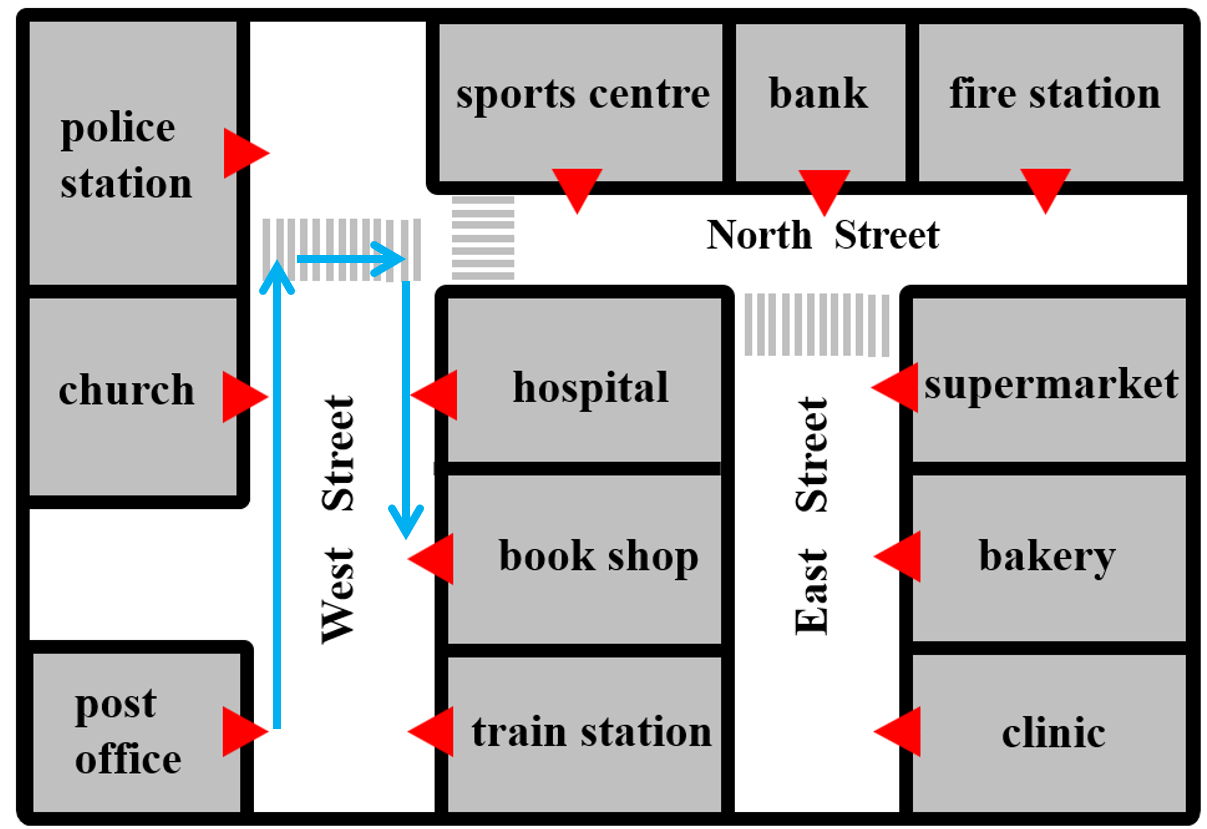
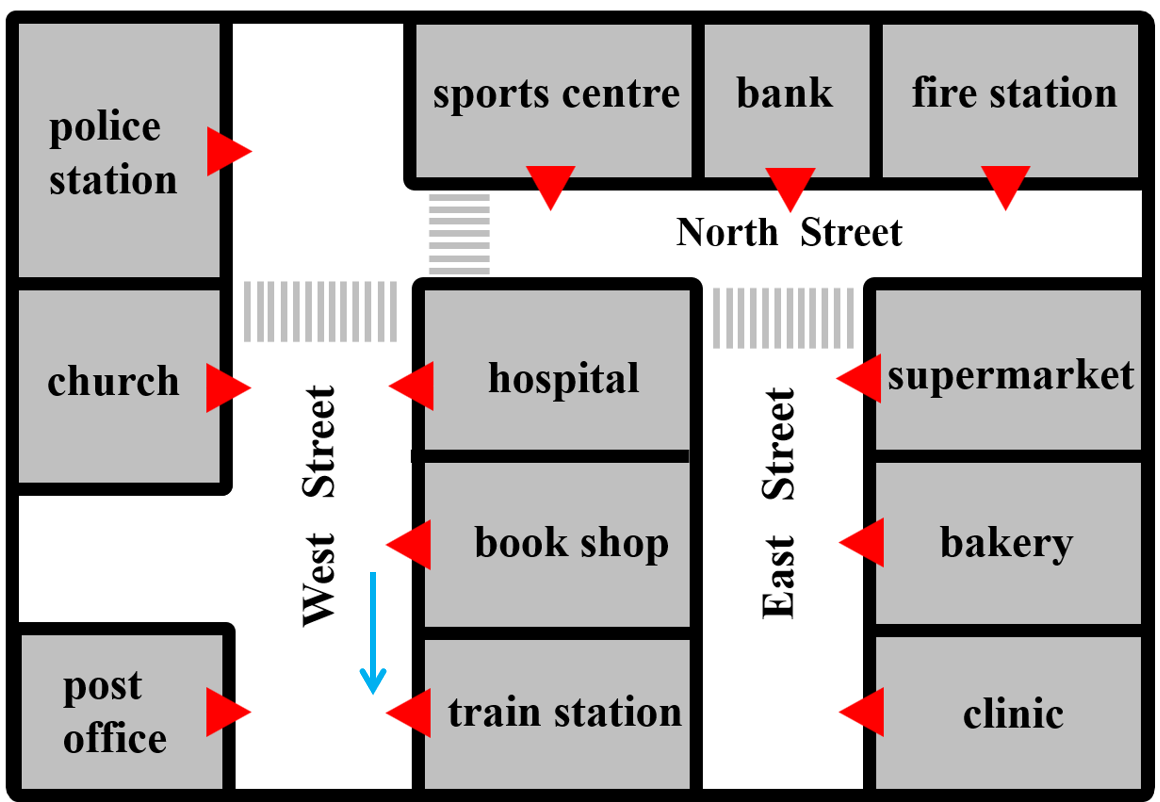
update location

diff --git a/lib/english-prompts.ts b/lib/english-prompts.ts
@@ -135,11 +135,13 @@ Opening sequence:
 2. Use the fixed [A] and [B] given in the "Fixed Locations for This Task" override section below. Do NOT pick your own pair. Keep this [A] and [B] for the rest of this task.
 3. Ask: "Great! Let us start Task 1. Look at the map. How can I go to the [B] from the [A]? Use prepositional phrases to describe the direction."
 
-IMPORTANT — Task 1 route: The Task 1 map shows a MARKED route from the post office to the book shop (up West Street, then across at the zebra crossing). Do NOT use the shortest same-street path. The "Verified Correct Route" provided below is the ONLY ground truth for this task — verify the student strictly against it (including the zebra crossing and both right turns).
+Reference answer (INTERNAL — never reveal before the student attempts the task):
+"Go out of the book shop. Turn left. Walk along West Street. The train station is on your left."
+This reference answer is a GUIDE to the expected route. The student does NOT have to match it word-for-word — wording, sentence style, and mentioning (or skipping) the "walk past" landmarks are all flexible. BUT the DIRECTIONS must still be correct: every turn (left/right), the walking direction, the street names, and the final side (your left / your right) MUST match this reference route. If the student's turn or direction contradicts the reference (e.g. writes "turn right" when the route turns left), you MUST correct it in the table — do NOT accept a wrong turn just because the rest is fine.
 
 When the student answers:
-1. Silently run the Route verification protocol against the Verified Correct Route (NOT a self-traced shortest path).
-2. Produce the correction table — left/right and turns must match the verified route. Mentioning the "walk past" buildings is OPTIONAL: do not add landmarks the student left out; only fix a landmark that is actually wrong.
+1. Silently run the Route verification protocol against the reference answer above (same street — walk along West Street to the destination).
+2. Produce the correction table — left/right and turns must match the reference route. Mentioning the "walk past" buildings is OPTIONAL: do not add landmarks the student left out; only fix a landmark that is actually wrong.
 
 Focus for this task:
 - Prepositional phrases only — complete sentences NOT required
@@ -147,7 +149,7 @@ Focus for this task:
 - Starting location MUST match the task
 - Left/right MUST match your verified path (except "walk across" steps)
 - Capitalize sentence starts and add "."
-- Example: "go out post office" → "Go out of the post office."
+- Example: "go out book shop" → "Go out of the book shop."
 - Do NOT suggest prepositions or phrases before the student answers
 `;
 
@@ -158,8 +160,14 @@ Opening sequence:
 2. Use the fixed [A] and [B] given in the "Fixed Locations for This Task" override section below. Do NOT pick your own pair. Keep this [A] and [B] for the rest of this task.
 3. Ask: "Great! Let us start Task 2. Look at the map. How can I go from [A] to [B]? Write short sentences with the prepositional phrases you learned."
 
+IMPORTANT — Task 2 route: The map shows a MARKED route from the post office to the book shop (up West Street, then across at the zebra crossing). Do NOT use the shortest same-street path — verify against the reference answer below (including the zebra crossing and both right turns).
+
+Reference answer (INTERNAL — never reveal before the student attempts the task):
+"Exit the post office and turn left. Walk straight ahead along West Street. Walk past the church. Turn right. Walk across the street at the zebra crossing. Turn right again. Walk past the hospital. The bookshop is on your left."
+This reference answer is a GUIDE to the expected route. The student does NOT have to match it word-for-word — wording, sentence style, and mentioning (or skipping) the "walk past" landmarks are all flexible. BUT the DIRECTIONS must still be correct: every turn (left/right), the walking direction, the street names, the zebra crossing, and the final side (your left / your right) MUST match this reference route. In particular, the FIRST step out of the post office is "turn left" — if the student writes "turn right" there (or any turn/direction that contradicts the reference), you MUST correct it in the table. Do NOT accept a wrong turn just because the rest is fine.
+
 When the student answers:
-1. Silently run the Route verification protocol with the SAME [A] and [B].
+1. Silently run the Route verification protocol against the reference answer above (NOT a self-traced shortest path).
 2. Produce the correction table.
 
 Focus for this task:
@@ -228,6 +236,7 @@ After the student finishes Task 5: "Congratulations! You have completed all task
 
 export const ENGLISH_LOCATION_DIRECTION_PROMPTS: Record<number, string> = {
   1: SHARED_CORE + TASK_1 + POST,
+  // Task 2 is a copy of Task 1 (see TASK_2), just labeled "Task 2".
   2: SHARED_CORE + TASK_2 + POST,
   3: SHARED_CORE + TASK_3 + POST,
   4: SHARED_CORE + TASK_4 + POST,
@@ -255,8 +264,8 @@ export type LocationPair = { from: string; to: string };
 
 // Fixed [A] → [B] location pairs for Tasks 1–4 (Task 5 uses the student's own map).
 export const LOCATION_FIXED_PAIRS: Record<number, LocationPair> = {
-  1: { from: "Post Office", to: "Book Shop" },
-  2: { from: "Sports Centre", to: "Fire Station" },
+  1: { from: "Book Shop", to: "Train Station" },
+  2: { from: "Post Office", to: "Book Shop" },
   3: { from: "Book Shop", to: "Sports Centre" },
   4: { from: "Sports Centre", to: "Clinic" },
 };
@@ -265,8 +274,13 @@ export const LOCATION_FIXED_PAIRS: Record<number, LocationPair> = {
 // in SHARED_CORE. Keyed by `${from}→${to}`. These are the canonical correct
 // answers the AI must verify the student against (no live tracing needed).
 export const LOCATION_FIXED_ROUTES: Record<string, string> = {
-  // Task 1 — Post Office → Book Shop. This follows the specific route DRAWN on
-  // the Task 1 map (up West Street, across at the zebra crossing), NOT the
+  // Task 1 — same street (West Street), Book Shop (east side, middle) → Train
+  // Station (east side, south end). Walk south; the train station is the next
+  // building down on the same side, so there is nothing to walk past.
+  "Book Shop→Train Station":
+    "Go out of the book shop. Turn left. Walk along West Street. The train station is on your left.",
+  // Task 2 — Post Office → Book Shop. This follows the specific route DRAWN on
+  // the Task 2 map (up West Street, across at the zebra crossing), NOT the
   // shortest same-street path. This exact answer is the ground truth.
   "Post Office→Book Shop":
     "Exit the post office and turn left. Walk straight ahead along West Street. Walk past the church. Turn right. Walk across the street at the zebra crossing. Turn right again. Walk past the hospital. The book shop is on your left.",

diff --git a/components/LocationDirectionMap.tsx b/components/LocationDirectionMap.tsx
@@ -31,16 +31,28 @@ const FACING: Record<Direction, string> = {
   right: `${basePath}/english/facingEast.png`,
 };
 
-// All tasks share the same map. It has no compass baked into the image, so the
-// reserved side column (recreated compass + relocated controls) is always shown.
-const MAP_SRC = `${basePath}/english/task 1 map.png`;
+// Each task has its own map image. None have a compass baked into the image, so
+// the reserved side column (recreated compass + relocated controls) is always
+// shown.
+const DEFAULT_MAP_SRC = `${basePath}/english/task 1 map.png`;
+const MAP_SRC_BY_TASK: Record<number, string> = {
+  1: `${basePath}/english/task 1 map.png`,
+  2: `${basePath}/english/task 2 map.png`,
+};
+
+function mapSrcFor(task: number | null) {
+  return (task != null && MAP_SRC_BY_TASK[task]) || DEFAULT_MAP_SRC;
+}
 
 // Where the sprite starts for each task, as a percentage of the map image,
-// plus the direction it initially faces.
-// Task 1 begins inside the "post office" box (bottom-left) facing east.
+// plus the direction it initially faces (see START_BY_TASK below).
 const DEFAULT_START: { x: number; y: number; facing: Direction } = { x: 50, y: 50, facing: "up" };
 const START_BY_TASK: Record<number, { x: number; y: number; facing: Direction }> = {
-  1: { x: 15, y: 86, facing: "right" },
+  // Task 1 starts inside the book shop box (West Street, east side, middle row),
+  // facing the street; the student walks south to the train station.
+  1: { x: 40, y: 63, facing: "left" },
+  // Task 2 starts inside the post office box (bottom-left) facing east.
+  2: { x: 15, y: 86, facing: "right" },
 };
 
 function startFor(task: number | null) {
@@ -174,7 +186,7 @@ export default function LocationDirectionMap({ task }: LocationDirectionMapProps
         {/* eslint-disable-next-line @next/next/no-img-element */}
         <img
           ref={mapRef}
-          src={MAP_SRC}
+          src={mapSrcFor(task)}
           alt="Map of a specific location"
           onLoad={updateSizes}
           style={{ width: "100%", display: "block" }}

diff --git a/app/english/dashboard/page.tsx b/app/english/dashboard/page.tsx
@@ -53,7 +53,7 @@ type ChatMsg = {
 
 // Builds the displayed task prompt for a concrete [A] → [B] pair.
 const taskTemplates: Record<number, (a: string, b: string) => string> = {
-  1: () => `Let us start Task 1. Look at the map. How can I go to the book shop from the post office? Use prepositional phrases to describe the direction.`,
+  1: () => `Let us start Task 1. Look at the map. How can I go to the train station from the book shop? Use prepositional phrases to describe the direction.`,
   2: (a, b) => `Let us start Task 2. Look at the map. How can I go from ${a} to ${b}? Write short sentences with the prepositional phrases you learned.`,
   3: (a, b) => `Let us start Task 3. Look at the map. How can I go from ${a} to ${b}? Write more than one sentence and use linking words (First, Then, After that, Finally).`,
   4: (a, b) => `Let us start Task 4. Look at the map. How can I go from ${a} to ${b}? Write a complete paragraph with a topic sentence and linking words.`,